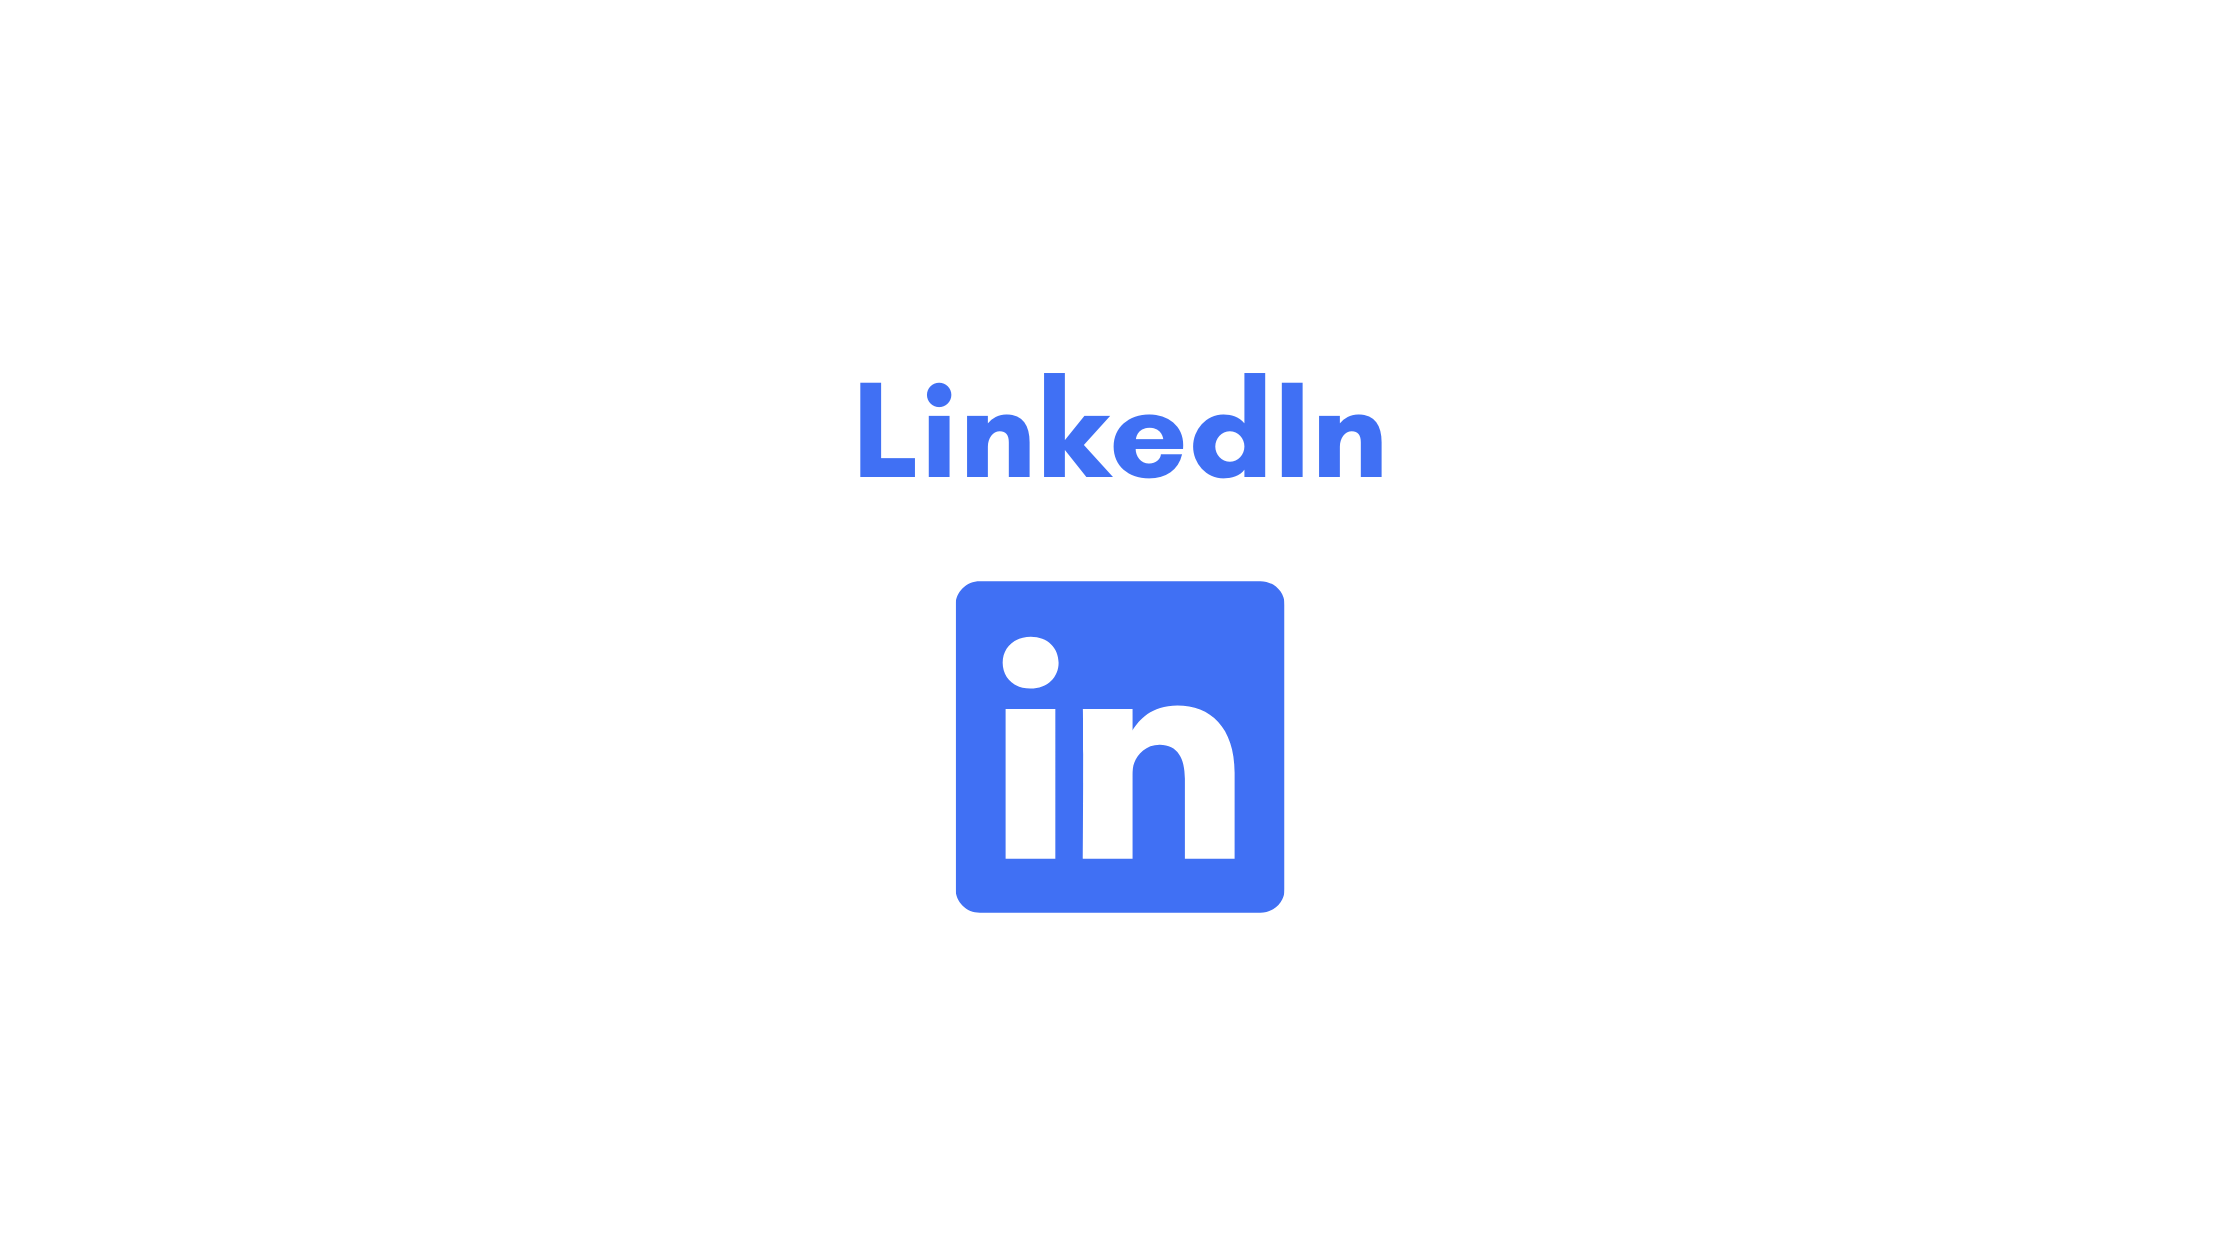
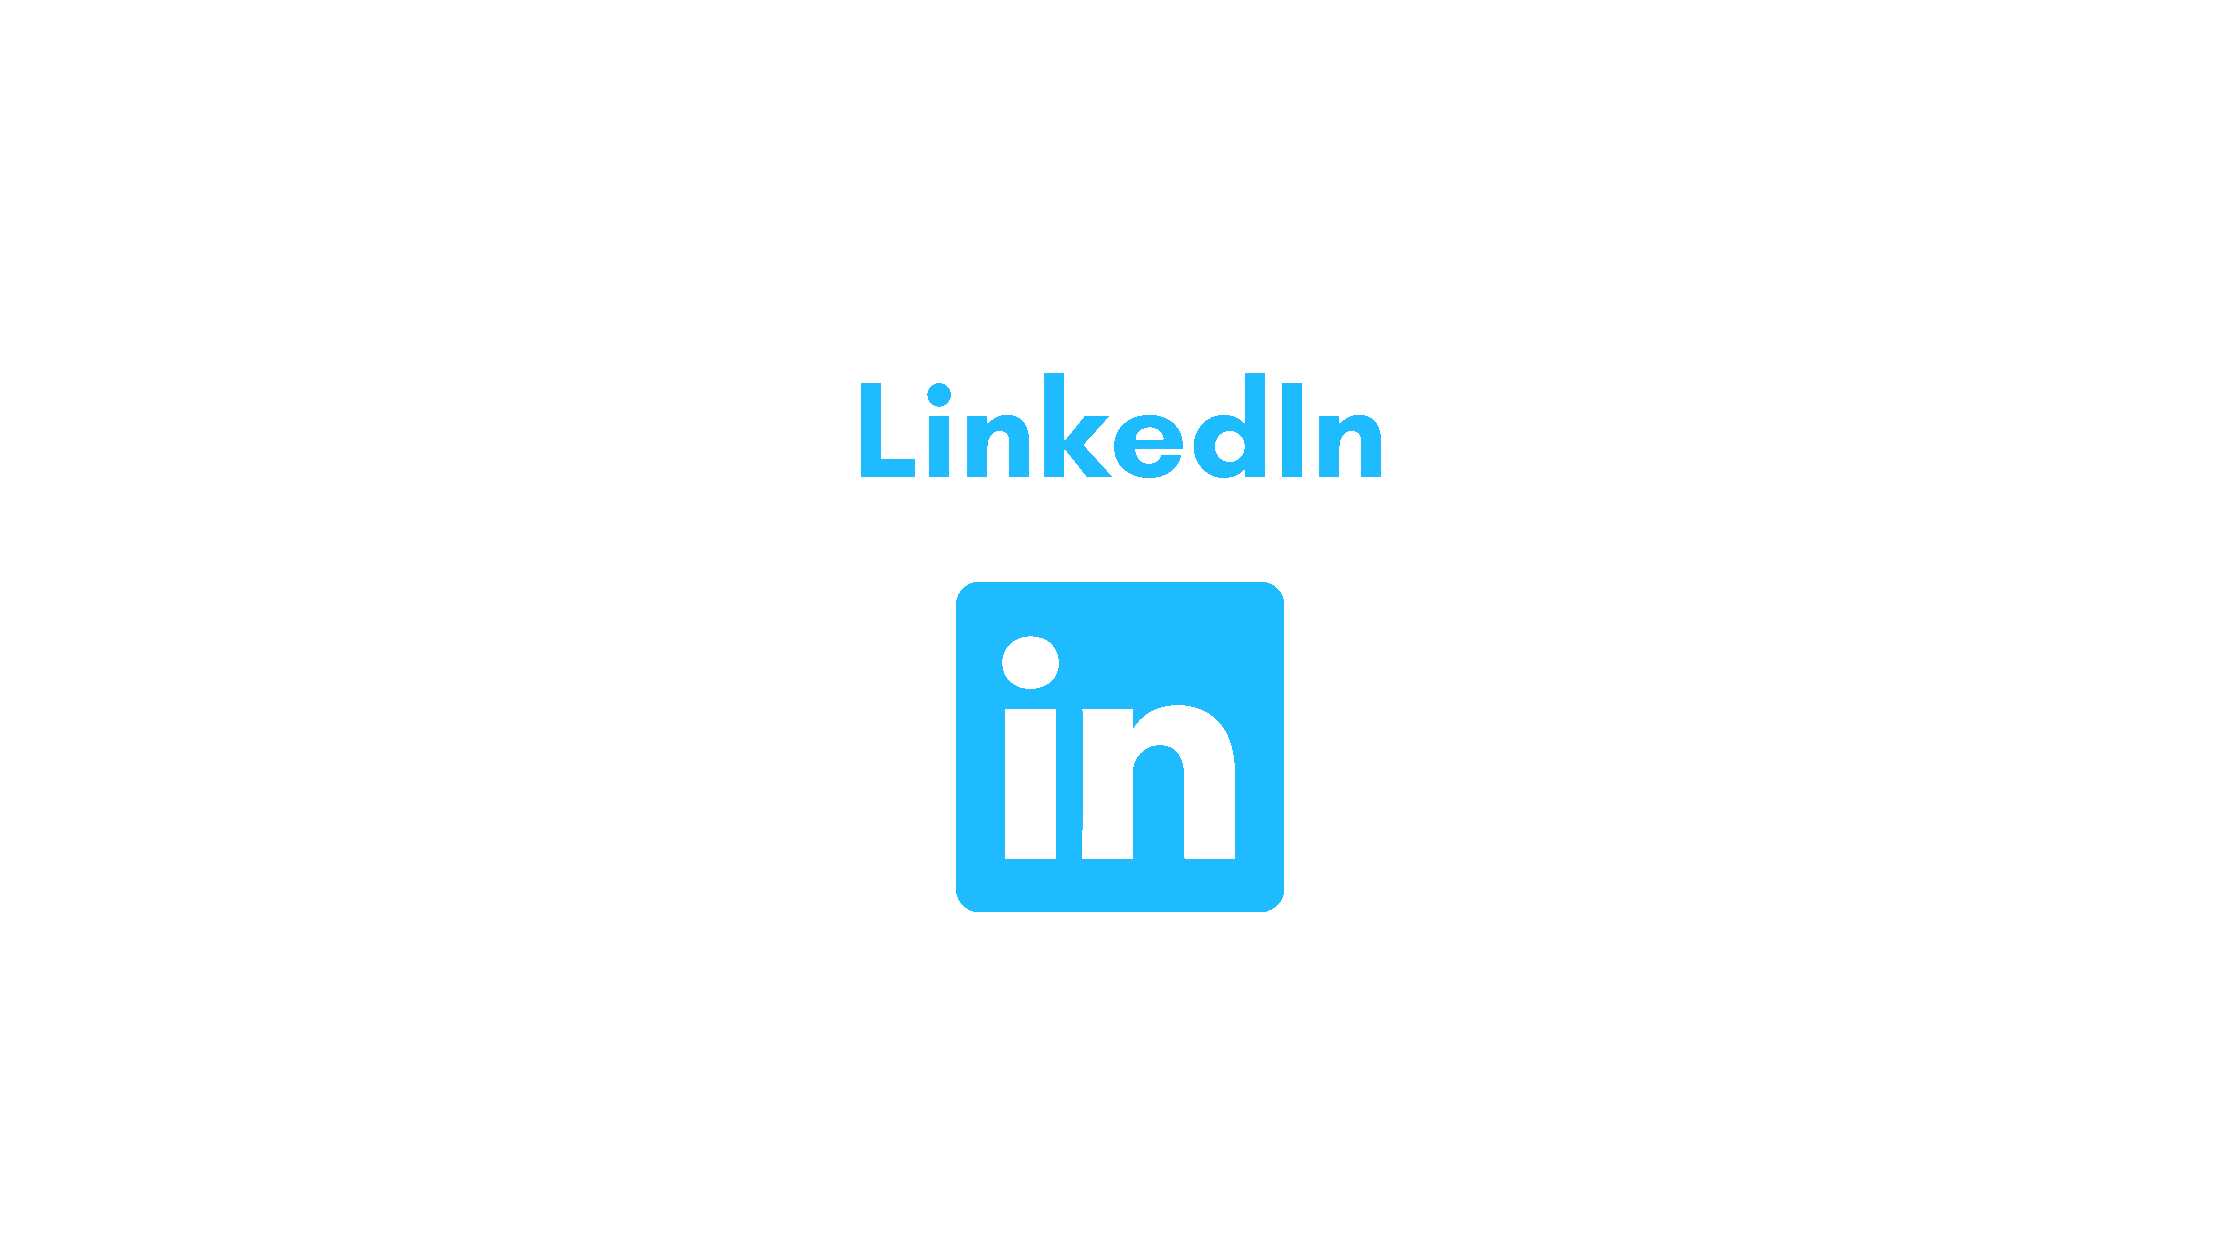
images+

Changed region(s): [[0.4062, 0.4333, 0.5938, 0.7429], [0.375, 0.2786, 0.625, 0.4024]]

diff --git a/assets/css/styles.css b/assets/css/styles.css
@@ -1,2 +1,2 @@
 /*Minified by Sayma Khan*/
-@import url(https://fonts.googleapis.com/css2?family=Poppins:wght@400;600;700&display=swap);:root{--header-height:3.3rem;--font-semi:600}:root{--home-bg:url('../img/main/day.png')}:root{--title-color:#c8e3f8;--first-color:#4070F4;--second-color:#03022b;--white-color:#ffffff;--social-color-hover:#c8e3f8;--social-color:#5993df;--ombre1:#99ccff;--ombre2:#ffcc99}:root{--body-font:'Poppins',sans-serif;--big-font-size:2.5rem;--h2-font-size:1.25rem;--normal-font-size:0.938rem;--mini-font-size:1rem}@media screen and (min-width:768px){:root{--big-font-size:2.5rem;--h2-font-size:2rem;--normal-font-size:1rem;--mini-font-size:1rem}}:root{--mb-1:0.5rem;--mb-2:1rem;--mb-3:1.5rem;--mb-4:2rem;--mb-5:2.5rem;--mb-6:3rem}:root{--z-back:-10;--z-normal:1;--z-tooltip:10;--z-fixed:100}*,::after,::before{box-sizing:border-box}html{scroll-behavior:smooth}body{margin:var(--header-height) 0 0 0;font-family:var(--body-font);font-size:var(--normal-font-size);color:var(--second-color)}h1,h2,p{margin:0}ul{margin:0;padding:0;list-style:none}a{text-decoration:none}img{max-width:100%;height:auto;display:block}.section-title{position:relative;font-size:var(--h2-font-size);color:var(--first-color);margin-top:var(--mb-2);margin-bottom:var(--mb-4);text-align:center}.section-title::after{position:absolute;content:"";width:64px;height:.18rem;left:0;right:0;margin:auto;top:2rem;background-color:var(--first-color)}.section{padding-top:3rem;padding-bottom:2rem}.bd-grid{max-width:1024px;display:grid;grid-template-columns:100%;grid-column-gap:2rem;width:calc(100% - 2rem);margin-left:var(--mb-2);margin-right:var(--mb-2)}.l-header{width:100%;position:fixed;top:0;left:0;z-index:var(--z-fixed);background:url(../img/main/bgnav4.gif);box-shadow:0 1px 4px rgba(146,161,176,.15);background-color:#fff}.l-header{width:100%;position:fixed;top:0;left:0;z-index:var(--z-fixed);background-color:#fff;box-shadow:0 1px 4px rgba(146,161,176,.15)}.nav{height:var(--header-height);display:flex;justify-content:space-between;align-items:center;font-weight:var(--font-semi)}@media screen and (max-width:768px){.nav__menu{position:fixed;top:var(--header-height);right:-100%;width:80%;height:100%;padding:2rem;background-color:var(--second-color);transition:.5s}}.nav__item{margin-bottom:var(--mb-4)}.nav__link{position:relative;color:#fff}.nav__link:hover{position:relative}.nav__link:hover::after{position:absolute;content:"";width:100%;height:.18rem;left:0;top:2rem;background-color:var(--first-color)}.nav__logo{color:var(--second-color)}.nav__toggle{color:var(--second-color);font-size:1.5rem;cursor:pointer}.active::after{position:absolute;content:"";width:100%;height:.18rem;left:0;top:2rem;background-color:var(--first-color)}.show{right:0}.home{height:calc(100vh - 3rem);row-gap:1rem}.about__container{row-gap:2rem;text-align:left}.home__data{align-self:center}.home__title{font-size:var(--big-font-size);margin-bottom:var(--mb-5);color:#d3eafc;text-shadow:#0f0f10 2px 0 25px}.home__title-color{color:#57b1cc}.home__social{display:flex;flex-direction:column}.home__social-icon{width:max-content;margin-bottom:var(--mb-2);font-size:2.5rem;color:var(--social-color)}.mode__icon{width:max-content;margin-bottom:var(--mb-2);font-size:1.5rem}.home__social-icon:hover{color:var(--social-color-hover)}.home__img{position:absolute;right:0;bottom:0;width:295px}.home__img img{width:450px;border-radius:.5rem}.button{display:inline-block;background-color:var(--first-color);color:#fff;padding:.75rem 2.5rem;font-weight:var(--font-semi);border-radius:.5rem}.button:hover{box-shadow:0 10px 36px rgba(0,0,0,.15)}.about__container{row-gap:2rem;text-align:center}.about__subtitle{margin-bottom:var(--mb-2)}.about__img img{border-radius:.5rem}.about__text{text-shadow:0 10px 36px rgba(255,255,255,.2);font-size:1.1rem;text-align:justify}.skills__container{row-gap:2rem}.skills__subtitle{color:var(--first-color);margin-bottom:var(--mb-3)}.skills__name{display:inline-block;font-size:var(--mini-font-size);margin-right:var(--mb-2);margin-bottom:var(--mb-3);padding:.25rem .5rem;border-radius:.25rem;transition:.3s}.skills__name:hover{background-color:var(--first-color);color:var(--white-color);box-shadow:0 4px 25px rgba(28,28,28,.3)}.skills__img img{border-radius:.5rem}.work__container{row-gap:2rem}.work__img{box-shadow:0 4px 25px rgba(28,28,28,.4);border-radius:.5rem;overflow:hidden}.work__img img{transition:1s;cursor:pointer}.work__img img:hover{transform:scale(1.1)}.contact__input{width:100%;font-size:var(--normal-font-size);font-weight:var(--font-semi);padding:1rem;border-radius:.5rem;border:1.5px solid var(--second-color);outline:0;margin-bottom:var(--mb-4)}.contact__button{display:block;border:none;outline:0;font-size:var(--normal-font-size);cursor:pointer;margin-left:auto}.contact__img{border-radius:.5rem;overflow:hidden}.contact__img img{transition:1s;cursor:pointer}.contact__img img:hover{transform:scale(1.1)}.footer{background-color:var(--second-color);background:url(../img/main/bgnav.gif);box-shadow:0 1px 4px rgba(146,161,176,.15);color:#fff;text-align:center;font-weight:var(--font-semi);padding:1rem 0}.footer__title{font-size:2rem;margin-bottom:var(--mb-4)}.footer__social{margin-bottom:var(--mb-4)}.footer__icon{font-size:1.5rem;color:#fff;margin:0 var(--mb-2)}@media screen and (min-width:768px){body{margin:0}.section{padding-top:4rem;padding-bottom:3rem}.section-title{margin-bottom:var(--mb-6)}.section-title::after{width:80px;top:3rem}.nav{height:calc(var(--header-height) + 1rem)}.nav__list{display:flex;padding-top:0}.nav__item{margin-left:var(--mb-6);margin-bottom:0}.nav__toggle{display:none}.nav__link{color:var(--second-color)}.home{height:100vh}.home__data{align-self:flex-end}.home__social{padding-top:0;padding-bottom:2.5rem;flex-direction:row;align-self:flex-end}.home__social-icon{margin-bottom:0;margin-right:var(--mb-4)}.home__img{width:457px;bottom:15%}.about__container,.skills__container{grid-template-columns:repeat(2,1fr);align-items:center;text-align:initial}.about__img img{width:350px}.work__container{grid-template-columns:repeat(3,1fr);grid-template-rows:repeat(1,1fr);column-gap:2rem}.contact__form{width:360px}.contact__container{justify-items:center}}@media screen and (min-width:1024px){.bd-grid{margin-left:auto;margin-right:auto}.home__img{right:10%}}.dark-mode{background-color:#1c1c1c;color:#c8e3f8;--first-color:#7daae6;--home-bg:url('../img/main/night.png');--ombre1:#990099;--ombre2:#003399}.switch{position:relative;display:inline-block;width:60px;height:34px}.switch input{opacity:0;width:0;height:0}.slider{position:absolute;cursor:pointer;top:0;left:0;right:0;bottom:0;background-color:#ccc;-webkit-transition:.4s;transition:.4s}.slider:before{position:absolute;content:"";height:26px;width:26px;left:4px;bottom:4px;background-color:#fff;-webkit-transition:.4s;transition:.4s}input:checked+.slider{background-color:#4070f4}input:focus+.slider{box-shadow:0 0 1px #4070f4}input:checked+.slider:before{-webkit-transform:translateX(26px);-ms-transform:translateX(26px);transform:translateX(26px)}.slider.round{border-radius:34px}.slider.round:before{border-radius:50%}.tooltip{position:relative;display:inline-block}.tooltip .tooltiptext{visibility:hidden;width:170px;background-color:#4070f4;color:#fff;text-align:center;border-radius:6px;padding:5px 0;position:absolute;z-index:1;bottom:90%;left:50%;margin-left:-85px}.tooltip .tooltiptext::after{content:"";position:absolute;top:100%;left:50%;font-size:15px;margin-left:-5px;border-width:5px;border-style:solid;border-color:#4070f4 transparent transparent transparent}.tooltip:hover .tooltiptext{visibility:visible}.parallax{background-image:var(--home-bg);min-height:500px;background-attachment:fixed;background-position:center;background-repeat:no-repeat;background-size:cover}@media only screen and (max-width:760px){#mobile{color:#4070f4;text-shadow:none}#profile-picture{opacity:1}#home{padding-top:3rem;padding-bottom:2rem;background:linear-gradient(to bottom,var(--ombre1) 0,var(--ombre2) 100%);min-height:500px}}
+@import url(https://fonts.googleapis.com/css2?family=Poppins:wght@400;600;700&display=swap);:root{--header-height:3.3rem;--font-semi:600}:root{--home-bg:url('../img/main/day.png')}:root{--title-color:#c8e3f8;--first-color:#4070F4;--second-color:#03022b;--white-color:#ffffff;--social-color-hover:#c8e3f8;--social-color:#5993df;--ombre1:#99ccff;--ombre2:#ffcc99}:root{--body-font:'Poppins',sans-serif;--big-font-size:2.5rem;--h2-font-size:1.25rem;--normal-font-size:0.938rem;--mini-font-size:1rem}@media screen and (min-width:768px){:root{--big-font-size:2.5rem;--h2-font-size:2rem;--normal-font-size:1rem;--mini-font-size:1rem}}:root{--mb-1:0.5rem;--mb-2:1rem;--mb-3:1.5rem;--mb-4:2rem;--mb-5:2.5rem;--mb-6:3rem}:root{--z-back:-10;--z-normal:1;--z-tooltip:10;--z-fixed:100}*,::after,::before{box-sizing:border-box}html{scroll-behavior:smooth}body{margin:var(--header-height) 0 0 0;font-family:var(--body-font);font-size:var(--normal-font-size);color:var(--second-color)}h1,h2,p{margin:0}ul{margin:0;padding:0;list-style:none}a{text-decoration:none}img{max-width:100%;height:auto;display:block}.section-title{position:relative;font-size:var(--h2-font-size);color:var(--first-color);margin-top:var(--mb-2);margin-bottom:var(--mb-4);text-align:center}.section-title::after{position:absolute;content:"";width:64px;height:.18rem;left:0;right:0;margin:auto;top:2rem;background-color:var(--first-color)}.section{padding-top:3rem;padding-bottom:2rem}.bd-grid{max-width:1024px;display:grid;grid-template-columns:100%;grid-column-gap:2rem;width:calc(100% - 2rem);margin-left:var(--mb-2);margin-right:var(--mb-2)}.l-header{width:100%;position:fixed;top:0;left:0;z-index:var(--z-fixed);background:url(../img/main/bgnav4.gif);box-shadow:0 1px 4px rgba(146,161,176,.15);background-color:#fff}.l-header{width:100%;position:fixed;top:0;left:0;z-index:var(--z-fixed);background-color:#fff;box-shadow:0 1px 4px rgba(146,161,176,.15)}.nav{height:var(--header-height);display:flex;justify-content:space-between;align-items:center;font-weight:var(--font-semi)}@media screen and (max-width:768px){.nav__menu{position:fixed;top:var(--header-height);right:-100%;width:80%;height:100%;padding:2rem;background-color:var(--second-color);transition:.5s}}.nav__item{margin-bottom:var(--mb-4)}.nav__link{position:relative;color:#fff}.nav__link:hover{position:relative}.nav__link:hover::after{position:absolute;content:"";width:100%;height:.18rem;left:0;top:2rem;background-color:var(--first-color)}.nav__logo{color:var(--second-color)}.nav__toggle{color:var(--second-color);font-size:1.5rem;cursor:pointer}.active::after{position:absolute;content:"";width:100%;height:.18rem;left:0;top:2rem;background-color:var(--first-color)}.show{right:0}.home{height:calc(100vh - 3rem);row-gap:1rem}.about__container{row-gap:2rem;text-align:left}.home__data{align-self:center}.home__title{font-size:var(--big-font-size);margin-bottom:var(--mb-5);color:#d3eafc;text-shadow:#0f0f10 2px 0 25px}.home__title-color{color:#57b1cc}.home__social{display:flex;flex-direction:column}.home__social-icon{width:max-content;margin-bottom:var(--mb-2);font-size:2.5rem;color:var(--social-color)}.mode__icon{width:max-content;margin-bottom:var(--mb-2);font-size:1.5rem}.home__social-icon:hover{color:var(--social-color-hover)}.home__img{position:absolute;right:0;bottom:0;width:295px}.home__img img{width:450px;border-radius:.5rem}.button{display:inline-block;background-color:var(--first-color);color:#fff;padding:.75rem 2.5rem;font-weight:var(--font-semi);border-radius:.5rem}.button:hover{box-shadow:0 10px 36px rgba(0,0,0,.15)}.about__container{row-gap:2rem;text-align:center}.about__subtitle{margin-bottom:var(--mb-2)}.about__img img{border-radius:.5rem}.about__text{text-shadow:0 10px 36px rgba(255,255,255,.2);font-size:1.1rem;text-align:justify}.skills__container{row-gap:2rem}.skills__subtitle{color:var(--first-color);margin-bottom:var(--mb-3)}.skills__name{display:inline-block;font-size:var(--mini-font-size);margin-right:var(--mb-2);margin-bottom:var(--mb-3);padding:.25rem .5rem;border-radius:.25rem;transition:.3s}.skills__name:hover{background-color:var(--first-color);color:var(--white-color);box-shadow:0 4px 25px rgba(28,28,28,.3)}.skills__img img{border-radius:.5rem}.work__container{row-gap:2rem}.work__img{box-shadow:0 4px 25px rgba(28,28,28,.4);border-radius:.5rem;overflow:hidden}.work__img img{transition:1s;cursor:pointer}.work__img img:hover{transform:scale(1.1)}.contact__input{width:100%;font-size:var(--normal-font-size);font-weight:var(--font-semi);padding:1rem;border-radius:.5rem;border:1.5px solid var(--second-color);outline:0;margin-bottom:var(--mb-4)}.contact__button{display:block;border:none;outline:0;font-size:var(--normal-font-size);cursor:pointer;margin-left:auto}.contact__img{border-radius:.5rem;overflow:hidden}.contact__img img{transition:1s;cursor:pointer}.contact__img img:hover{transform:scale(1.1)}.footer{background-color:var(--second-color);background:url(../img/main/bgnav.gif);box-shadow:0 1px 4px rgba(146,161,176,.15);color:#fff;text-align:center;font-weight:var(--font-semi);padding:1rem 0}.footer__title{font-size:2rem;margin-bottom:var(--mb-4)}.footer__social{margin-bottom:var(--mb-4)}.footer__icon{font-size:1.5rem;color:#fff;margin:0 var(--mb-2)}@media screen and (min-width:768px){body{margin:0}.section{padding-top:4rem;padding-bottom:3rem}.section-title{margin-bottom:var(--mb-6)}.section-title::after{width:80px;top:3rem}.nav{height:calc(var(--header-height) + 1rem)}.nav__list{display:flex;padding-top:0}.nav__item{margin-left:var(--mb-6);margin-bottom:0}.nav__toggle{display:none}.nav__link{color:var(--second-color)}.home{height:100vh}.home__data{align-self:flex-end}.home__social{padding-top:0;padding-bottom:2.5rem;flex-direction:row;align-self:flex-end}.home__social-icon{margin-bottom:0;margin-right:var(--mb-4)}.home__img{width:457px;bottom:15%}.about__container,.skills__container{grid-template-columns:repeat(2,1fr);align-items:center;text-align:initial}.about__img img{width:350px}.work__container{grid-template-columns:repeat(3,1fr);grid-template-rows:repeat(1,1fr);column-gap:2rem}.contact__form{width:360px}.contact__container{justify-items:center}}@media screen and (min-width:1024px){.bd-grid{margin-left:auto;margin-right:auto}.home__img{right:10%}}.dark-mode{background-color:#1c1c1c;color:#c8e3f8;--first-color:#7daae6;--home-bg:url('../img/main/night.png');--ombre1:#990099;--ombre2:#003399}.switch{position:relative;display:inline-block;width:60px;height:34px}.switch input{opacity:0;width:0;height:0}.slider{position:absolute;cursor:pointer;top:0;left:0;right:0;bottom:0;background-color:#ccc;-webkit-transition:.4s;transition:.4s}.slider:before{position:absolute;content:"";height:26px;width:26px;left:4px;bottom:4px;background-color:#fff;-webkit-transition:.4s;transition:.4s}input:checked+.slider{background-color:#4070f4}input:focus+.slider{box-shadow:0 0 1px #4070f4}input:checked+.slider:before{-webkit-transform:translateX(26px);-ms-transform:translateX(26px);transform:translateX(26px)}.slider.round{border-radius:34px}.slider.round:before{border-radius:50%}.tooltip{position:relative;display:inline-block}.tooltip .tooltiptext{visibility:hidden;width:170px;background-color:#02aac7;color:#fff;box-shadow:0 10px 36px rgba(3,0,9,.357);text-align:center;border-radius:6px;padding:5px 0;position:absolute;z-index:1;bottom:90%;left:50%;margin-left:-85px}.tooltip .tooltiptext::after{content:"";position:absolute;top:100%;left:50%;font-size:15px;margin-left:-5px;border-width:5px;border-style:solid;border-color:#02aac7 transparent transparent transparent}.tooltip:hover .tooltiptext{visibility:visible}.parallax{background-image:var(--home-bg);min-height:500px;background-attachment:fixed;background-position:center;background-repeat:no-repeat;background-size:cover}@media only screen and (max-width:760px){#mobile{color:#4070f4;text-shadow:none}#profile-picture{opacity:1}#home{padding-top:3rem;padding-bottom:2rem;background:linear-gradient(to bottom,var(--ombre1) 0,var(--ombre2) 100%);min-height:500px}}
